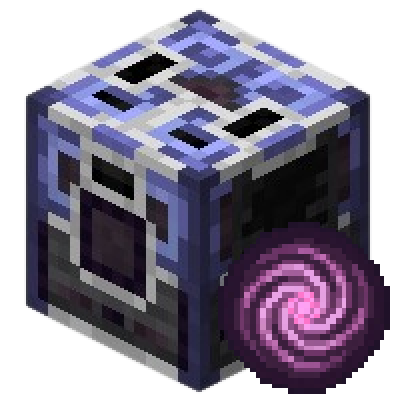
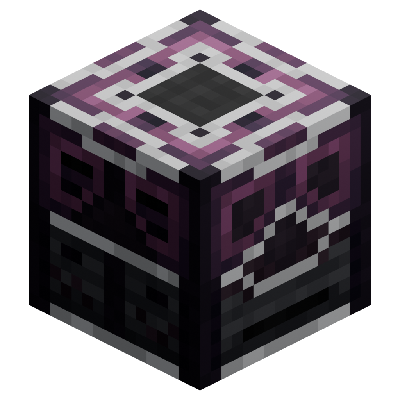
Added textures for Reinforced Anvil

diff --git a/BP/scripts/features/machines/refiningTable.js b/BP/scripts/features/machines/refiningTable.js
@@ -129,8 +129,8 @@ DoriosLib.registry.blockComponent(ID, {
             if (!machine.valid) return;
 
             machine.blockSlots([XP_DISPLAY_SLOT, STATS_DISPLAY_SLOT]);
-            setUiItem(machine.container, STATUS_SLOT, "utilitycraft:arrow_indicator_90");
-            setUiItem(machine.container, PROGRESS_SLOT, "utilitycraft:progress_right_big_bar_00");
+            setUiItem(machine.container, STATUS_SLOT, "utilitycraft:arcane_00");
+            setUiItem(machine.container, PROGRESS_SLOT, "utilitycraft:arcane_00");
             setUiItem(machine.container, DETAILS_SLOT, "utilitycraft:arrow_indicator_90");
             setUiItem(machine.container, STATS_DISPLAY_SLOT, "utilitycraft:ui_filler");
             setUiItem(machine.container, CONFIRM_SLOT, "utilitycraft:ui_filler", "\u00A7rRefine");
@@ -438,7 +438,7 @@ function showState(machine, xpTank, preview, running, title) {
     const cost = Math.max(1, Number(preview.energyCost) || CONFIG.defaults.idleEnergyCost);
     machine.setEnergyCost(cost);
     setDynamicNumber(machine.entity, "dorios:energy_cost_0", cost);
-    displayProgress(machine, cost, PROGRESS_SLOT);
+    machine.displayProgress(cost, { index: 0, slot: PROGRESS_SLOT, type: "arcane", scale: 16 });
     setRunning(machine, running);
     if (!machine.shouldUpdateUI) return;
 
@@ -449,7 +449,7 @@ function showState(machine, xpTank, preview, running, title) {
         `\u00A7r\u00A77Equipment: \u00A7f${formatItem(preview.equipment?.typeId)}`,
         `\u00A7r\u00A77Chip: \u00A7f${preview.chip?.label ?? "-"}`,
         `\u00A7r\u00A77XP: \u00A7f${FluidStorage.formatFluid(preview.availableXp)} / ${FluidStorage.formatFluid(preview.xpCost)}`,
-        `\u00A7r\u00A77Energy: \u00A7f${EnergyStorage.formatEnergyToText(cost)}`,
+        `\u00A7r\u00A77Energy: \u00A7f${EnergyStorage.formatEnergyToText(cost)}`
     ]), STATUS_SLOT);
     machine.setLabel(toMachineLabelStrings(buildDetails(preview)), DETAILS_SLOT);
     machine.setLabel(toMachineLabelStrings(buildAllStats(preview)), STATS_DISPLAY_SLOT);

diff --git a/BP/scripts/ATCore/StatsCore/core/lore.js b/BP/scripts/ATCore/StatsCore/core/lore.js
@@ -127,7 +127,7 @@ function buildReadableElementEntries(attributes) {
     return elements.map(element => {
         const icon = getElementIcon(element.id);
         const damage = Math.max(0, Number(element.damage ?? 0) || 0);
-        return `\u00A7r${icon} \u00A78${formatPercent(element.chance)} \u00A79+${damage.toFixed(damage % 1 === 0 ? 0 : 1)} ${titleCaseIdentifier(element.id)} Damage`;
+        return `\u00A7r${icon} \u00A78${formatPercent(element.chance)} \u00A79+${damage.toFixed(damage % 1 === 0 ? 0 : 1)}`;
     });
 }
 
@@ -171,13 +171,13 @@ function buildLevelLoreEntry(definition, state) {
     const progression = state?.progression ?? {};
     const entries = [];
     if (isProgressionCategoryEnabled(definition, "offensive")) {
-        entries.push(`\u00A7cOffensive Level ${Math.max(1, Number(progression.offensive?.level ?? 1) || 1)}`);
+        entries.push(`\u00A7cATK Lv. ${Math.max(1, Number(progression.offensive?.level ?? 1) || 1)}`);
     }
     if (isProgressionCategoryEnabled(definition, "mining")) {
-        entries.push(`\u00A7qMining Level ${Math.max(1, Number(progression.mining?.level ?? 1) || 1)}`);
+        entries.push(`\u00A7qADV Lv. ${Math.max(1, Number(progression.mining?.level ?? 1) || 1)}`);
     }
     if (isProgressionCategoryEnabled(definition, "defensive")) {
-        entries.push(`\u00A73Defensive Level ${Math.max(1, Number(progression.defensive?.level ?? 1) || 1)}`);
+        entries.push(`\u00A73DEF Lv. ${Math.max(1, Number(progression.defensive?.level ?? 1) || 1)}`);
     }
     return entries.length > 0 ? `\u00A7r${entries.join(" \u00A78| ")}` : null;
 }

diff --git a/BP/scripts/ATCore/StatsCore/commands.js b/BP/scripts/ATCore/StatsCore/commands.js
@@ -399,7 +399,7 @@ DoriosLib.registry.customCommand({
     permissionLevel: "admin",
     cheatsRequired: true,
     parameters: [
-        { name: "action", type: "enum", values: ["custom"] },
+        { name: "action", type: "enum", values: ["custom", "random"] },
         { name: "target", type: "player" },
         { name: "tier", type: "enum", values: Object.keys(REFINING_CONFIG.tierScales) },
         { name: "chip", type: "enum", values: [...REFINING_CONFIG.chips.keys()].map(entryAlias) },
